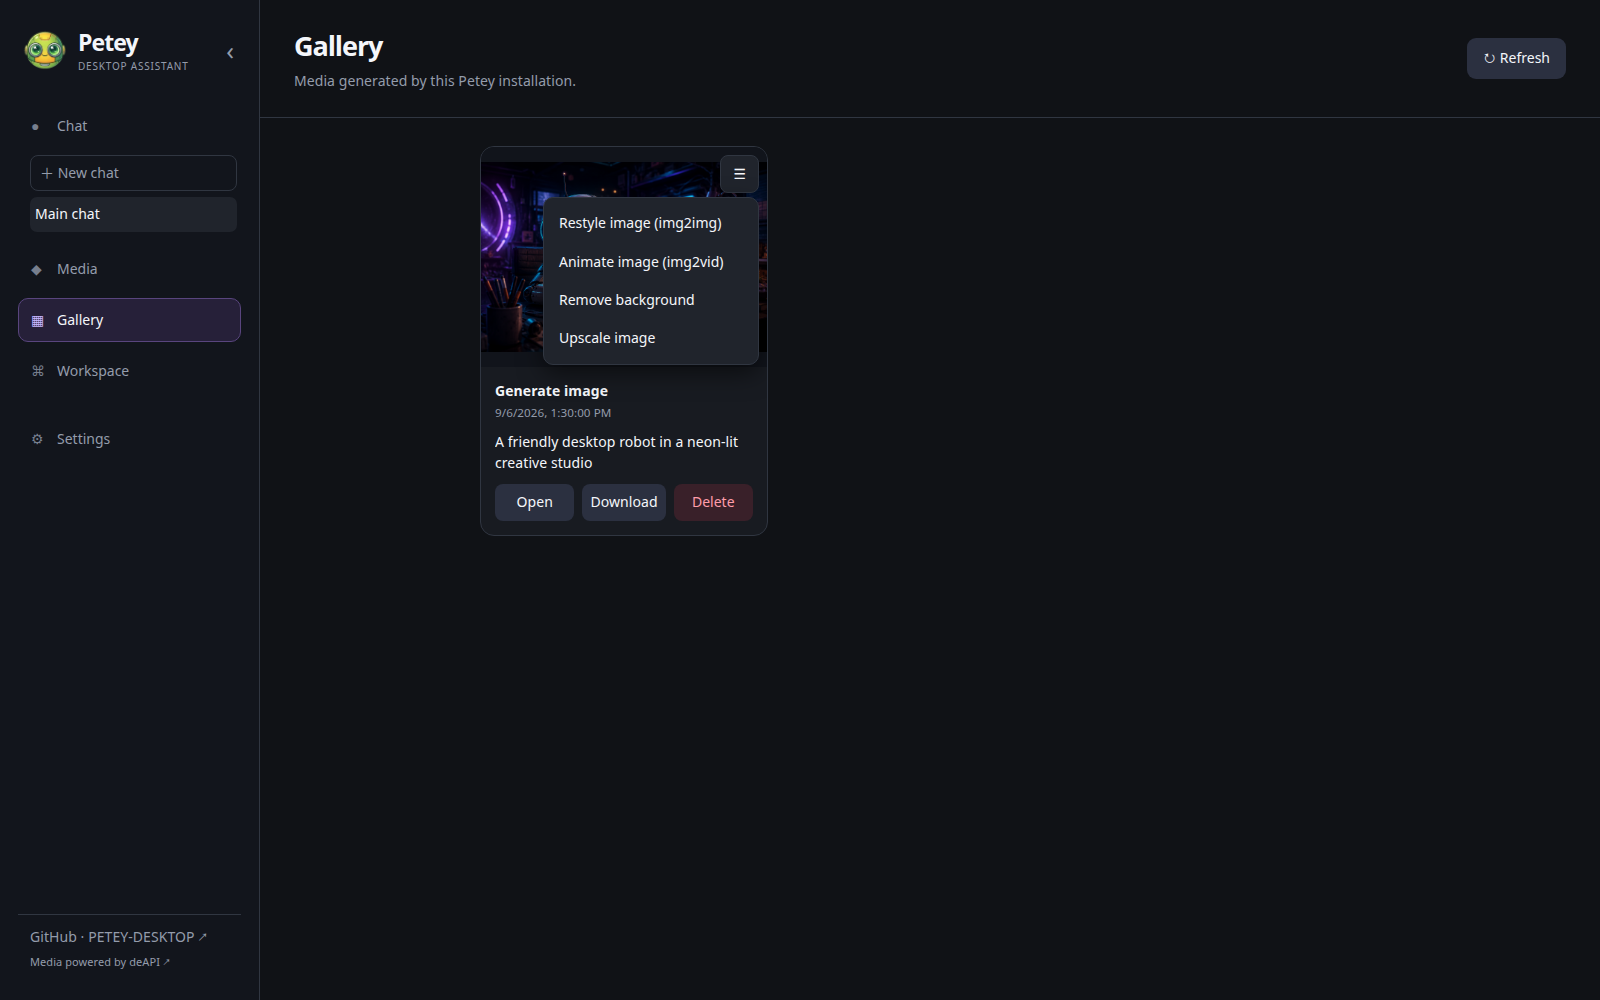
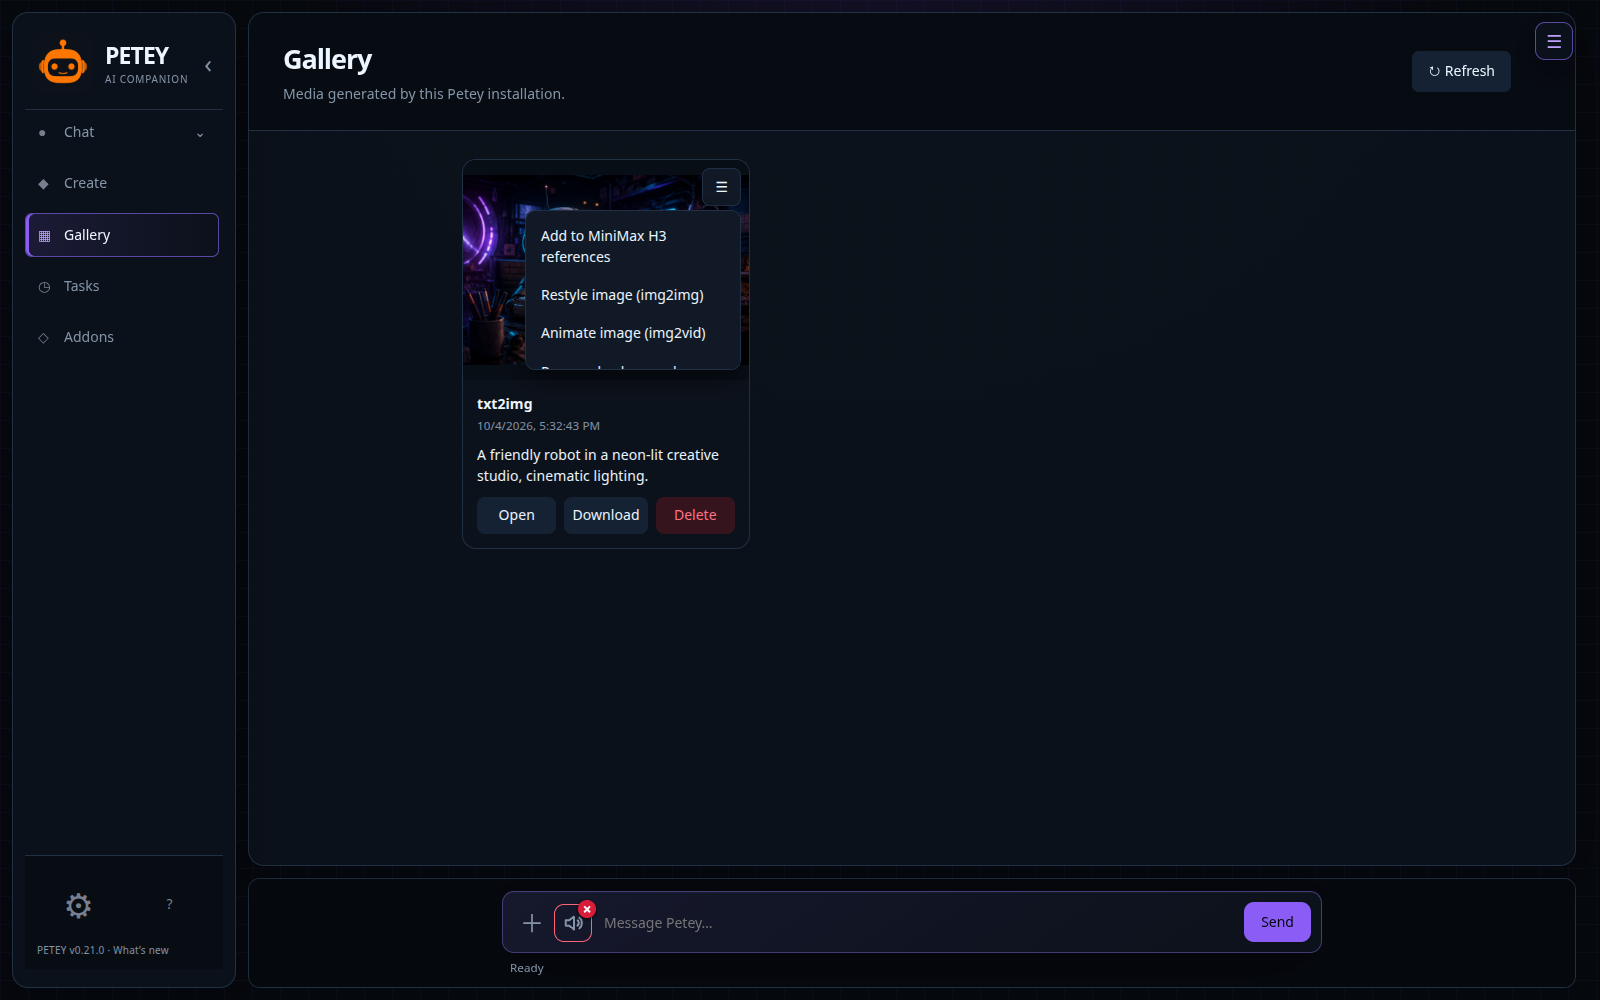
Refresh desktop and mobile preview screenshots

diff --git a/README.md b/README.md
@@ -21,15 +21,37 @@ needed for the feature you deliberately select.
 
 ## Preview
 
-![PETEY conversation view](docs/screenshots/chat.png)
+Current desktop development preview, captured October 2026. Screenshots use demo
+conversations, model data, and artwork; they contain no private chats or credentials.
+Some controls shown here belong to pending desktop changes rather than the tagged release.
 
-| Media studio | Audio-reactive visual mode |
-| --- | --- |
-| ![PETEY media generation studio](docs/screenshots/media.png) | ![PETEY audio-reactive neural visualization](docs/screenshots/visual-mode.png) |
+![PETEY desktop conversation with demo artwork](docs/screenshots/chat.png)
 
-| Settings | Gallery actions |
+| Create | Audio-reactive visual mode |
 | --- | --- |
-| ![PETEY appearance settings and theme picker](docs/screenshots/settings.png) | ![PETEY gallery image actions](docs/screenshots/gallery.png) |
+| ![PETEY media studio with demo artwork](docs/screenshots/media.png) | ![PETEY Neural Core visual mode](docs/screenshots/visual-mode.png) |
+
+| Settings overview | Gallery actions |
+| --- | --- |
+| ![PETEY grouped settings overview](docs/screenshots/settings.png) | ![PETEY local gallery and image actions](docs/screenshots/gallery.png) |
+
+| Appearance & profile | Personality & voice |
+| --- | --- |
+| ![PETEY desktop styles and display controls](docs/screenshots/appearance.png) | ![PETEY saved profiles and personality settings](docs/screenshots/personality.png) |
+
+<details>
+<summary>Tools & integrations</summary>
+
+![PETEY tools and web browser controls](docs/screenshots/tools.png)
+
+</details>
+
+<details>
+<summary>Mobile browser chat</summary>
+
+<img src="docs/screenshots/mobile-chat.png" alt="PETEY mobile browser chat with demo artwork" width="430">
+
+</details>
 
 ## Character creation and roleplay
 
